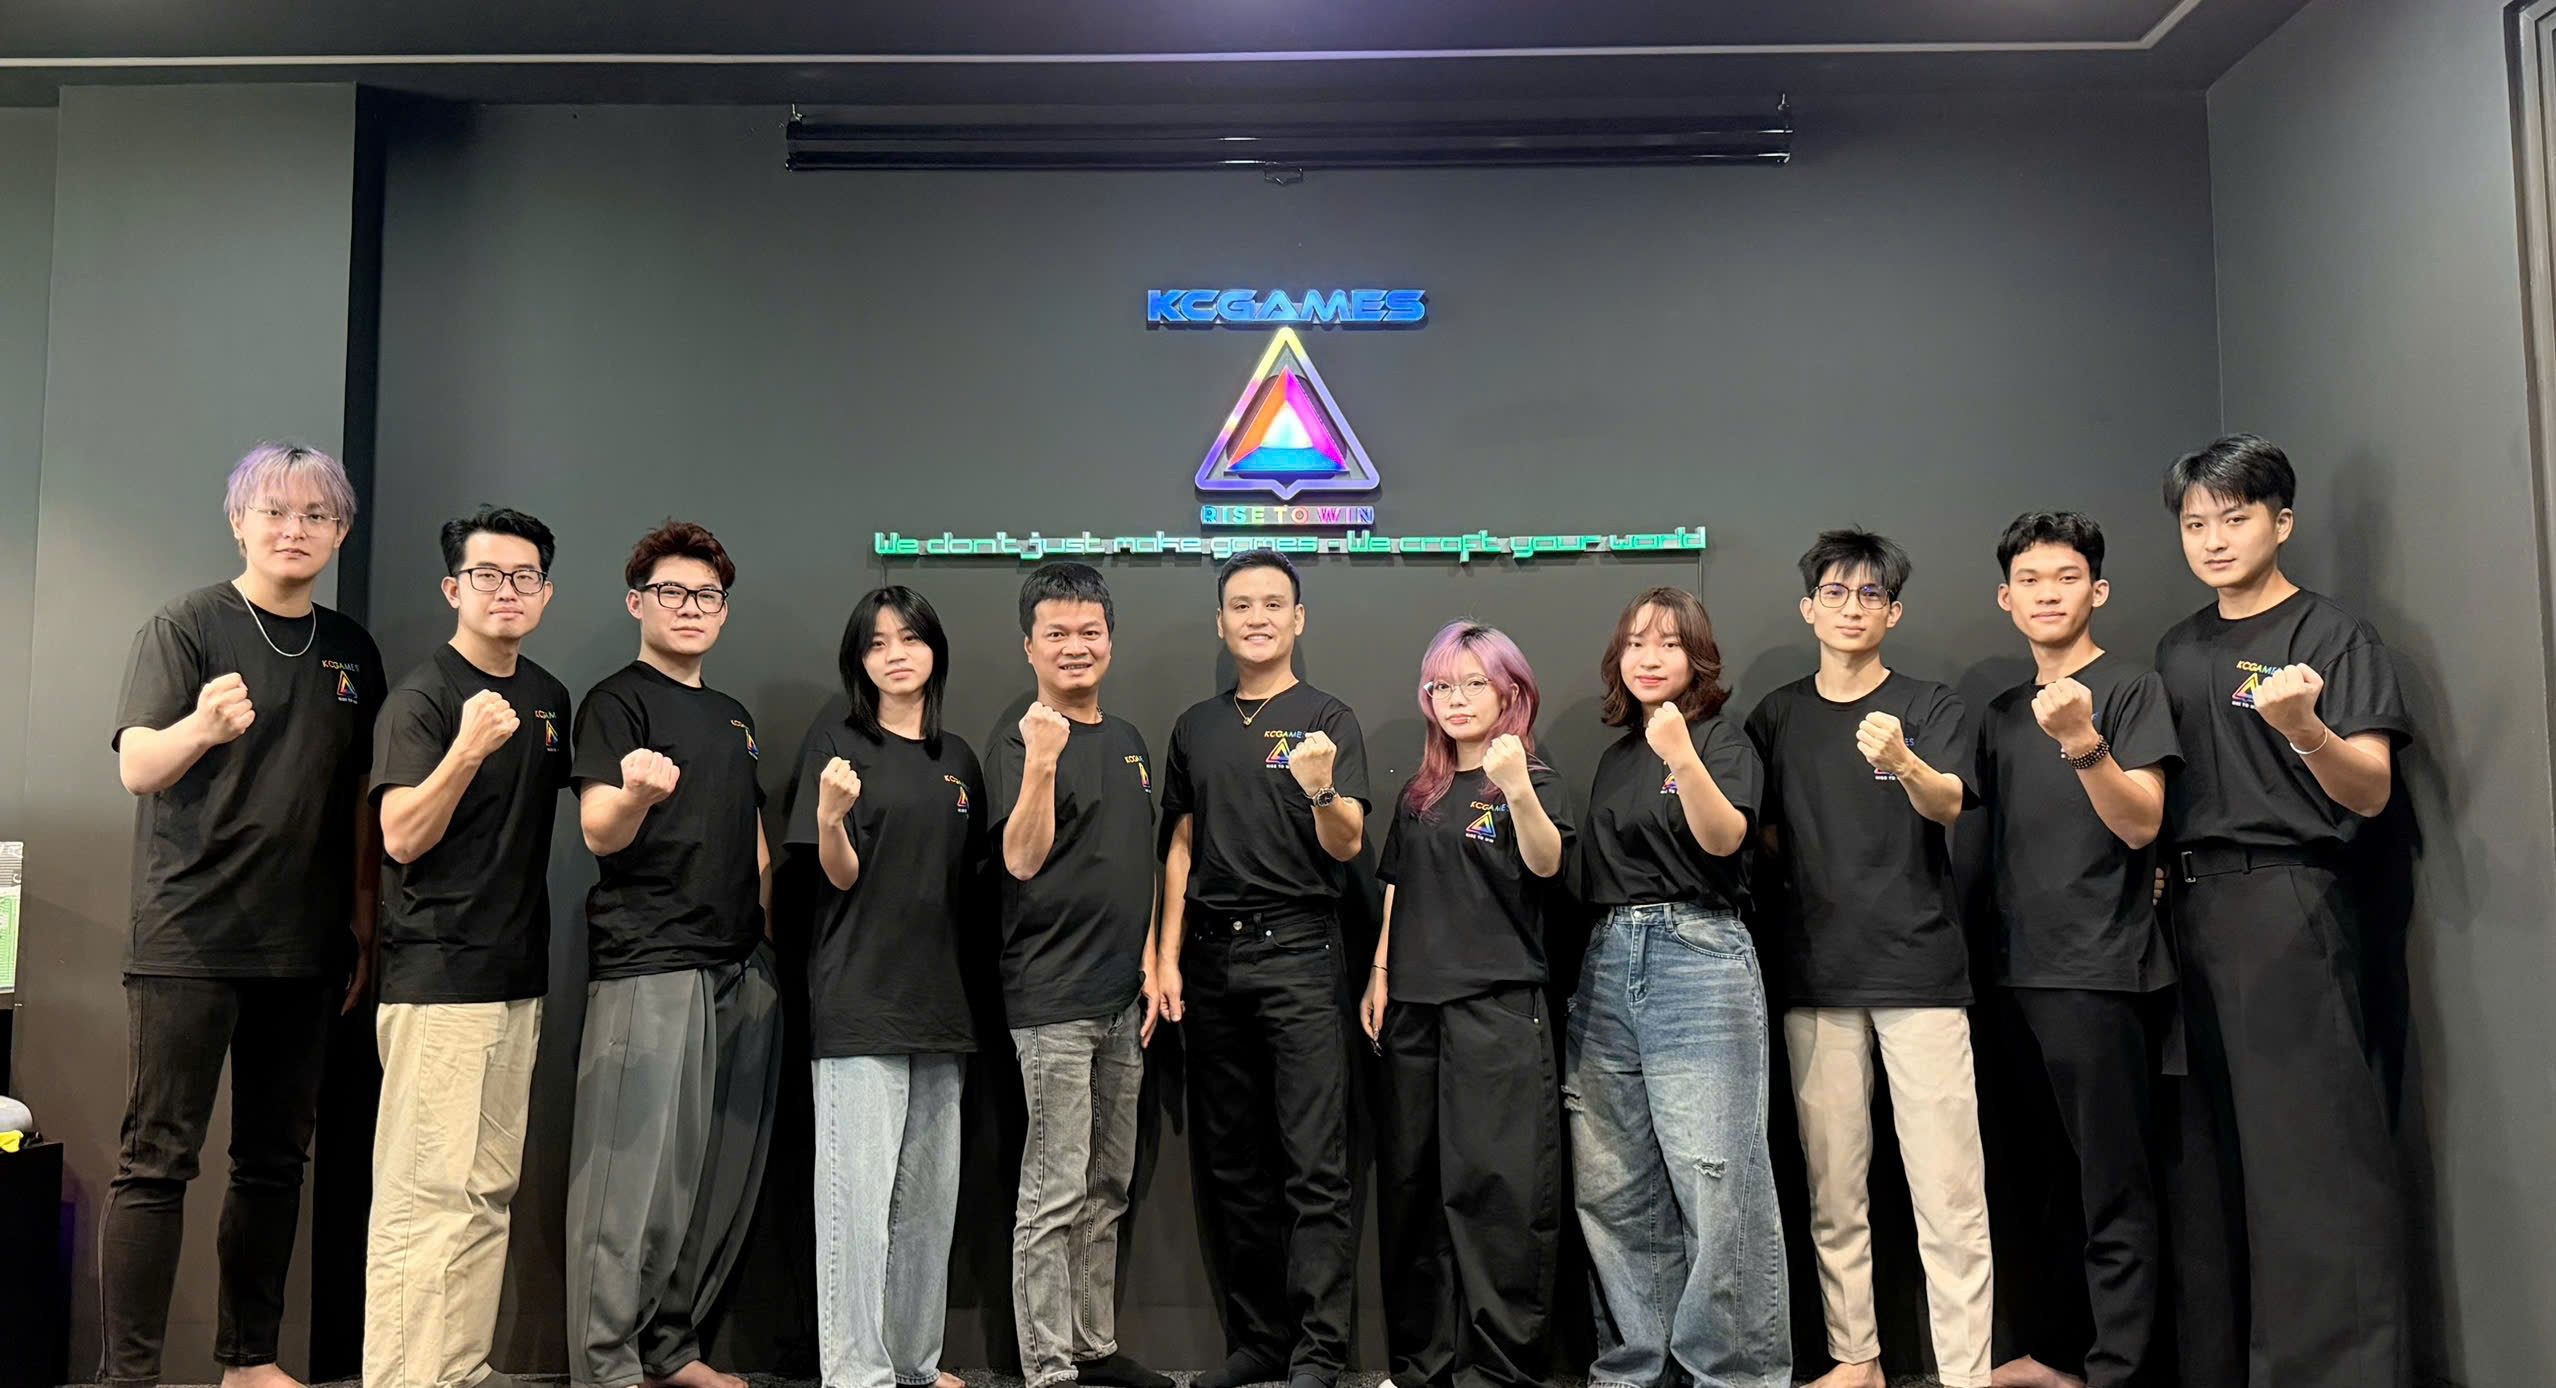
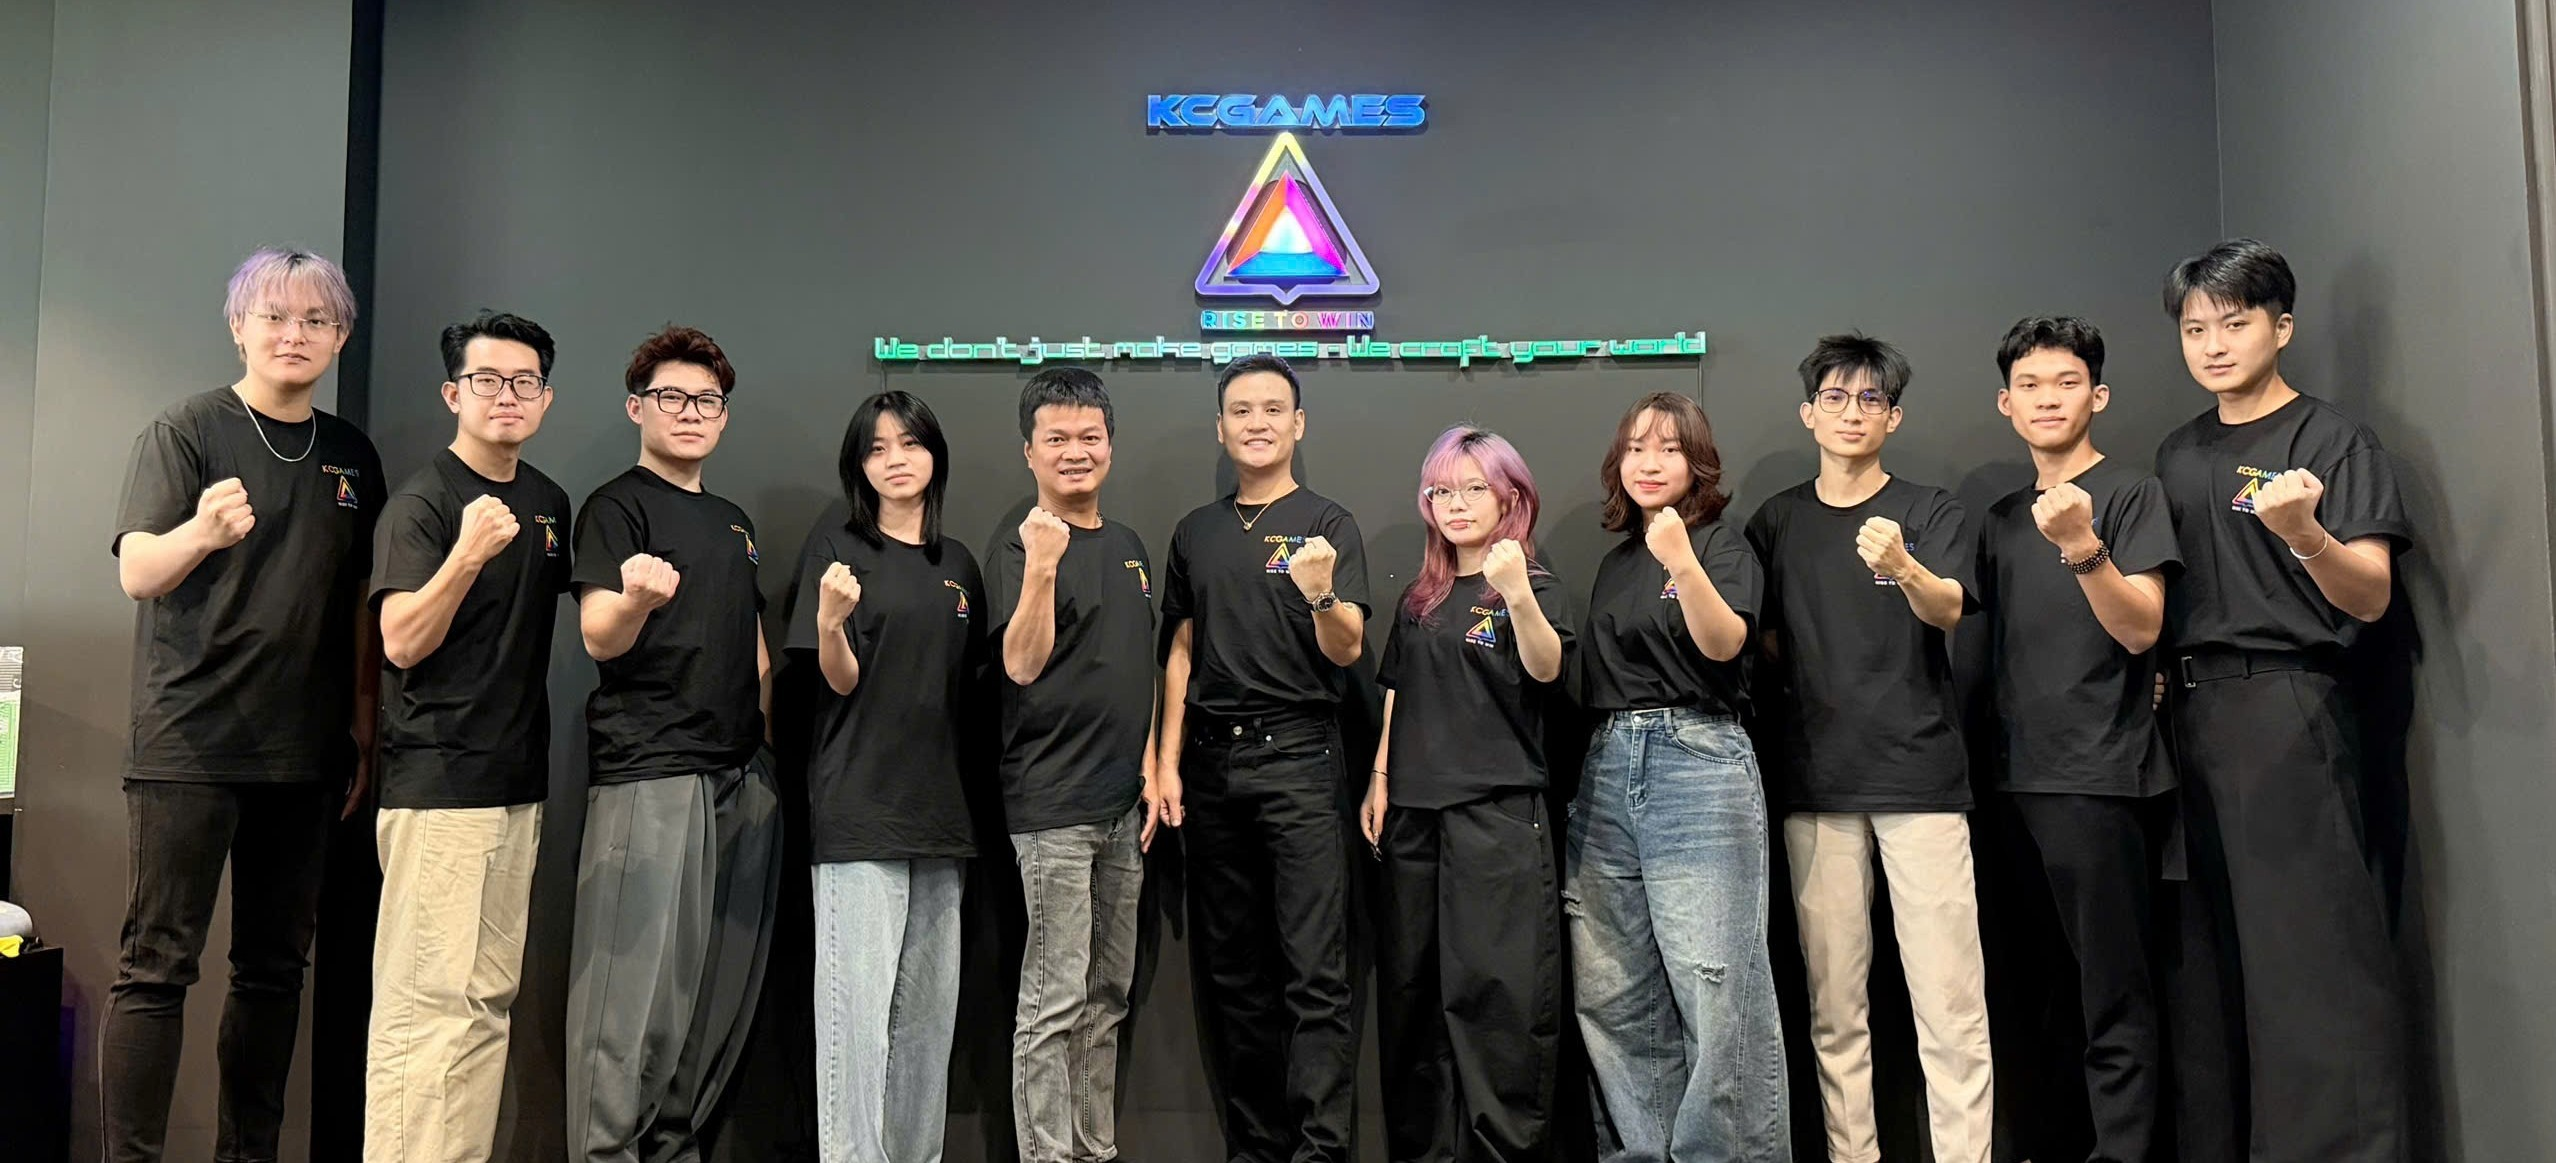
commirt

diff --git a/public/css/gioi-thieu.css b/public/css/gioi-thieu.css
@@ -14,6 +14,7 @@ body {
     height: auto;
     display: block;
     object-fit: cover;
+    padding-top: 50px;
 }
 
 /* -----------------------------------------

diff --git a/public/css/hoatdong.css b/public/css/hoatdong.css
@@ -14,6 +14,7 @@ body {
     height: auto;
     display: block;
     object-fit: cover;
+    padding-top: 50px;
 }
 
 /* Wrapper */
